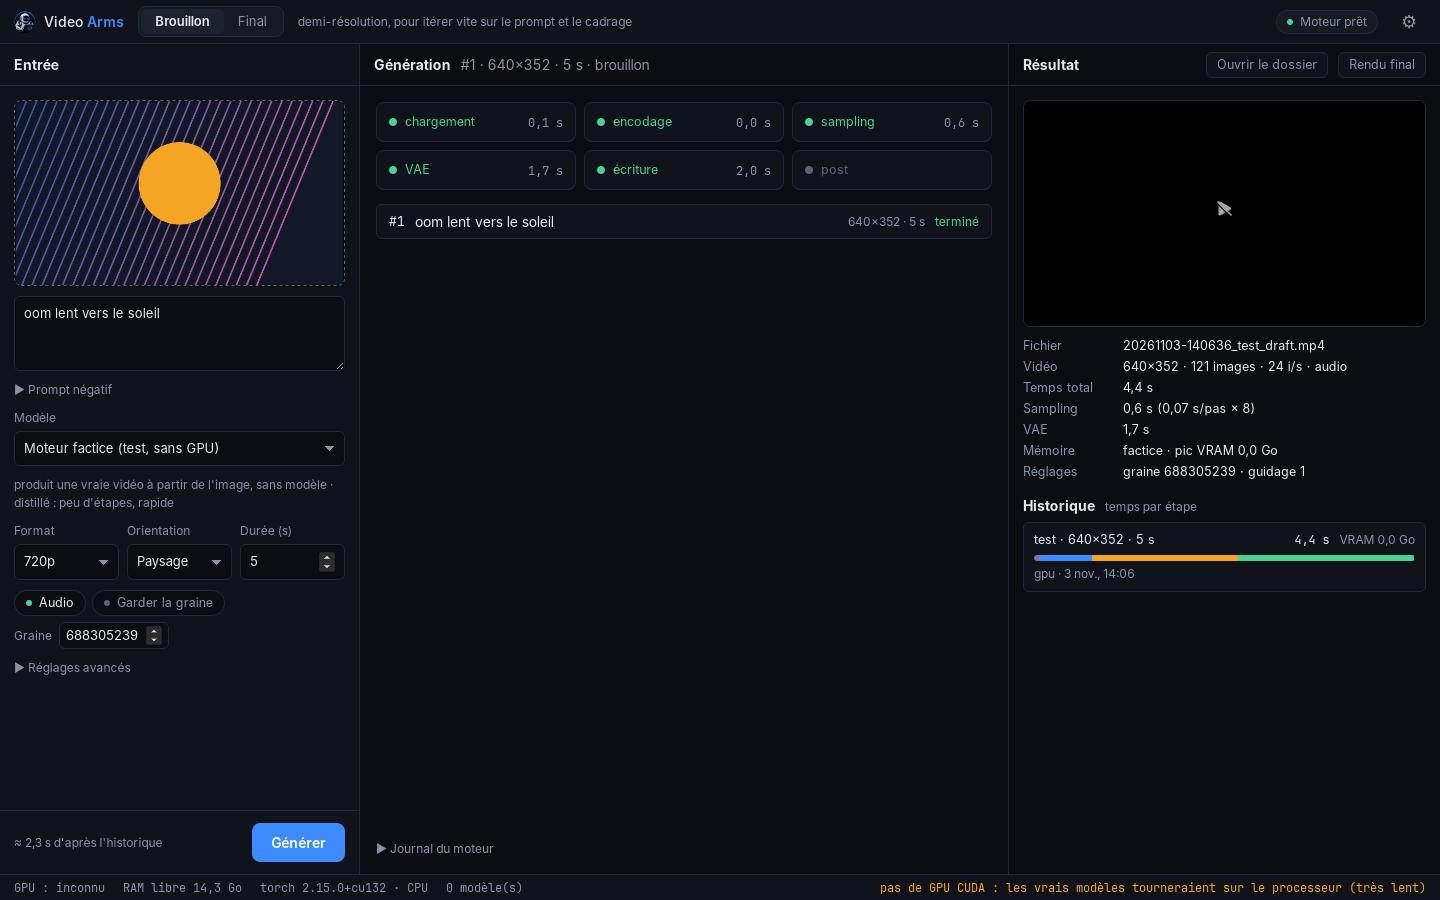
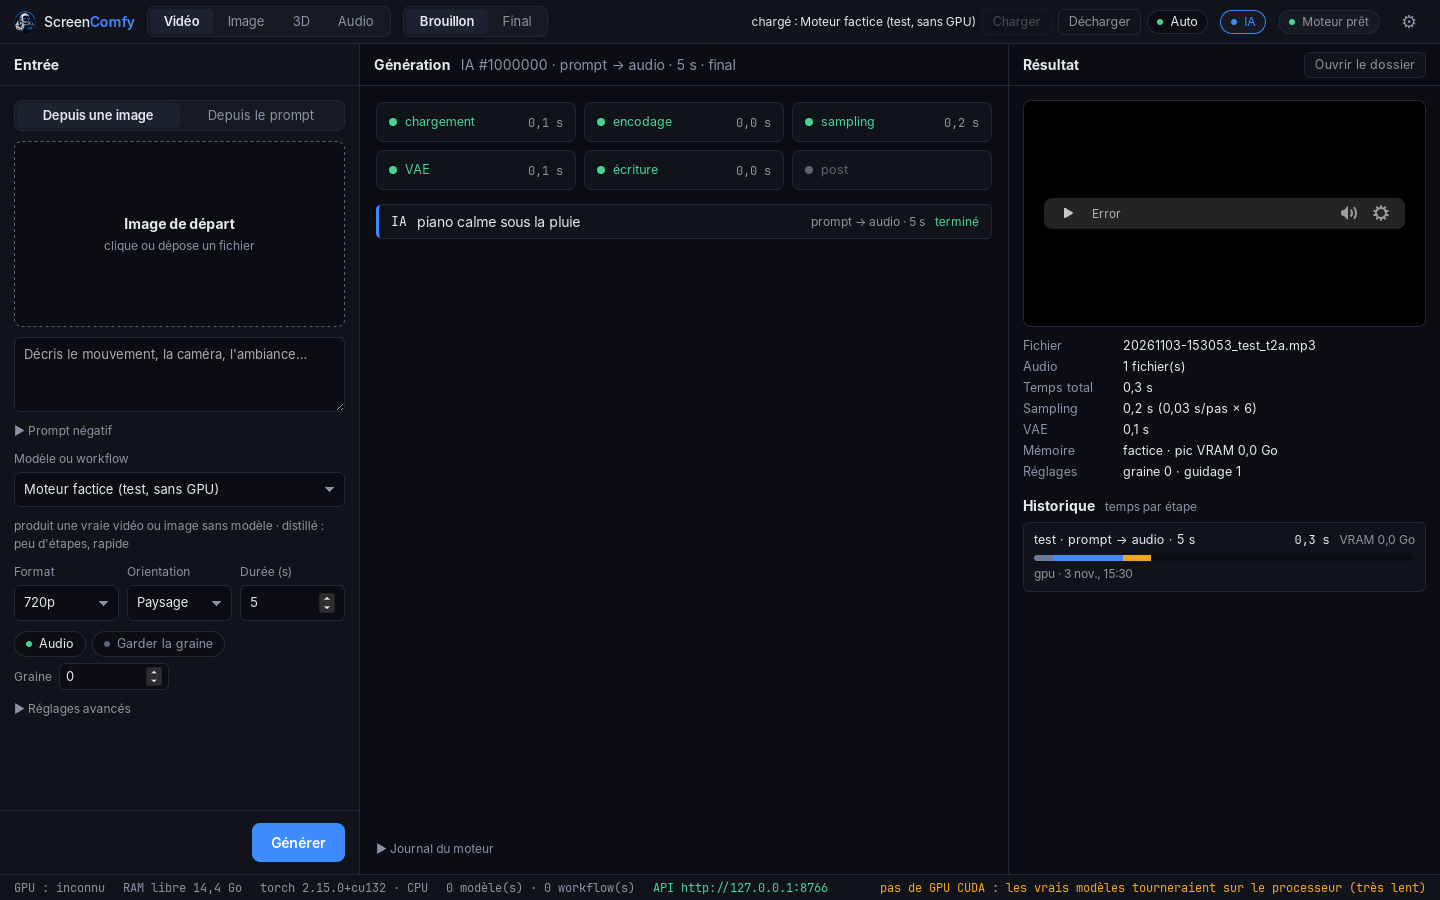
Interface : chip audio et rendu final selon le type, capture
Claude-Session: https://claude.ai/code/session_01HHCwYUDbkzqRn9wkbBNQmh

diff --git a/ui/src/main.ts b/ui/src/main.ts
@@ -112,7 +112,7 @@ function renderModelNote() {
     );
   } else cn.hidden = true;
   $("opt-audio").toggleAttribute("disabled", !!m && !m.audio);
-  $("opt-audio").hidden = state.kind === "image";
+  $("opt-audio").hidden = state.kind !== "video";
   renderLoaded();
   renderEstimate();
 }
@@ -175,7 +175,7 @@ function renderResult() {
   const q = state.lastDone;
   const player = $("player");
   $("reveal").hidden = !q;
-  $("to-final").hidden = !q || q.job.mode !== "draft";
+  $("to-final").hidden = !q || q.job.mode !== "draft" || !!q.origin || !(q.job.task.endsWith("v") || q.job.task.endsWith("i"));
   if (!q?.done) {
     player.replaceChildren(h("div", { class: "muted small" }, "La vidéo s'affichera ici."));
     $("result-info").replaceChildren();
